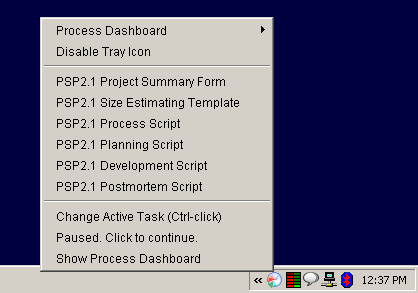
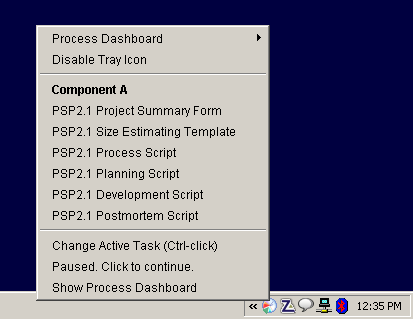
When adding script menu items to the system tray popup menu, add header items that indicate which project the scripts belong to.
git-svn-id: https://svn.code.sf.net/p/processdash/code/trunk@3255 560cad82-bde2-470f-af40-e4e1f8d6548a

Changed region(s): [[0.0, 0.0307, 1.0, 0.9829]]

diff --git a/processdash/src/net/sourceforge/processdash/ui/systray/ScriptMenuReplicator.java b/processdash/src/net/sourceforge/processdash/ui/systray/ScriptMenuReplicator.java
@@ -25,6 +25,7 @@
 
 package net.sourceforge.processdash.ui.systray;
 
+import java.awt.Font;
 import java.awt.MenuItem;
 import java.awt.PopupMenu;
 import java.awt.event.ActionEvent;
@@ -33,6 +34,8 @@ import java.beans.EventHandler;
 import java.beans.PropertyChangeListener;
 import java.util.Iterator;
 import java.util.List;
+
+import javax.swing.UIManager;
 
 import net.sourceforge.processdash.ProcessDashboard;
 import net.sourceforge.processdash.hier.ActiveTaskModel;
@@ -87,21 +90,22 @@ public class ScriptMenuReplicator {
         List scriptItems = hierarchy.getScriptIDs(currentPhase);
 
         if (scriptItems != null && scriptItems.size() > 1) {
-            // insert a separator at the top of the list of script items
-            popupMenu.insert(new ScriptMenuSeparator(), ++pos);
             Iterator i = scriptItems.iterator();
+            String currentPath = null;
             // the first item in the list is a "default script" which does not
-            // need to be displayed. But we will retrieve the initial data
-            // path from that item to know what we're displaying scripts for.
-            String currentPath = ((ScriptID) i.next()).getDataPath();
+            // need to be displayed in our menu. Discard it.
+            i.next();
             // now insert a menu item for each script.
             while (i.hasNext()) {
                 ScriptID scriptID = (ScriptID) i.next();
                 // if the data path changed with this item, insert a separator
+                // and a header identifying the new path
                 String newPath = scriptID.getDataPath();
-                if (!newPath.equals(currentPath))
+                if (!newPath.equals(currentPath)) {
                     popupMenu.insert(new ScriptMenuSeparator(), ++pos);
-                currentPath = newPath;
+                    popupMenu.insert(new ScriptMenuHeader(newPath), ++pos);
+                    currentPath = newPath;
+                }
                 // now insert a menu item for this script.
                 popupMenu.insert(new ScriptMenuItem(scriptID), ++pos);
             }
@@ -131,6 +135,19 @@ public class ScriptMenuReplicator {
             }
         };
 
+    }
+
+    private static class ScriptMenuHeader extends MenuItem implements
+            ScriptItemTag {
+
+        public ScriptMenuHeader(String path) {
+            int slashPos = path.lastIndexOf('/');
+            String label = path.substring(slashPos+1);
+            setLabel(label);
+
+            Font f = UIManager.getFont("MenuItem.font");
+            setFont(f.deriveFont(Font.BOLD));
+        }
     }
 
     private static class ScriptMenuSeparator extends MenuItem implements
